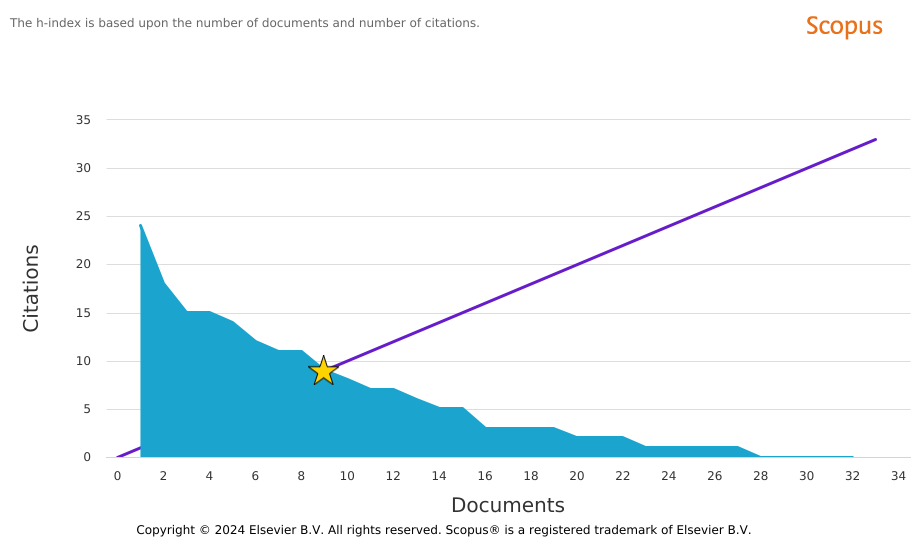
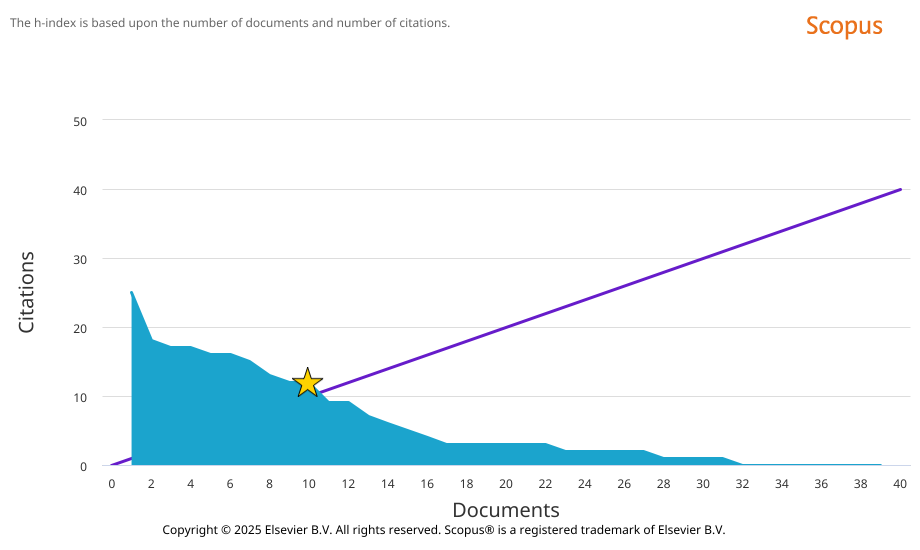
Added paper with Miryam and Beatrice, updated Scopus data

diff --git a/research.html b/research.html
@@ -482,6 +482,12 @@ problems in a non-trivial way.
     <ul class="fa-ul">
       <li><span class="fa-li"><i class="fas fa-spinner fa-pulse"></i></span>
       <strong>Durastante, F.</strong>; <strong>Gnazzo, M.</strong>, <strong>Meini, B.</strong>.
+      Kemeny's constant minimization for reversible Markov chains via structure-preserving perturbations.
+      <strong>In preparation</strong> (2025). <a href="https://github.com/Cirdans-Home/optimize-kemeny" target="_blank"><i class="fa-solid fa-code"></i></a>
+      {% include arxiv.html content="https://arxiv.org/abs/2510.24679" %}
+      </li> 
+      <li><span class="fa-li"><i class="fas fa-spinner fa-pulse"></i></span>
+      <strong>Durastante, F.</strong>; <strong>Gnazzo, M.</strong>, <strong>Meini, B.</strong>.
       A Riemannian Optimization Approach for Finding the Nearest Reversible Markov Chain.
       <strong>Submitted</strong> (2025). <a href="https://github.com/miryamgnazzo/nearest-reversible" target="_blank"><i class="fa-solid fa-code"></i></a>
       {% include arxiv.html content="https://arxiv.org/abs/2505.16762" %}
@@ -741,7 +747,7 @@ Massei and L. Robol.
     <td><img src="/assets/img/FDSubjectAreas.png" width="80%" alt="Subject Areas"></td>
   </tr>
   <tr>
-    <td style="text-align: center;">(Scopus) H-Index: 9</td>
+    <td style="text-align: center;">(Scopus) H-Index: 10</td>
     <td style="text-align: center;">(Scopus) Subject Areas</td>
   </tr>
   </table>
